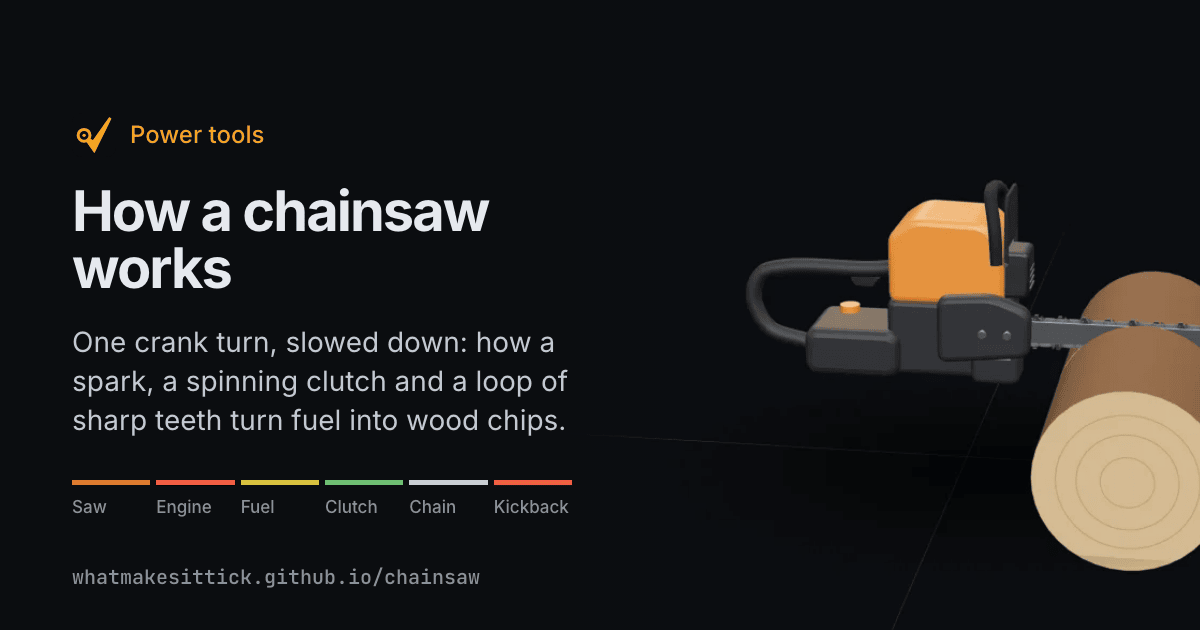
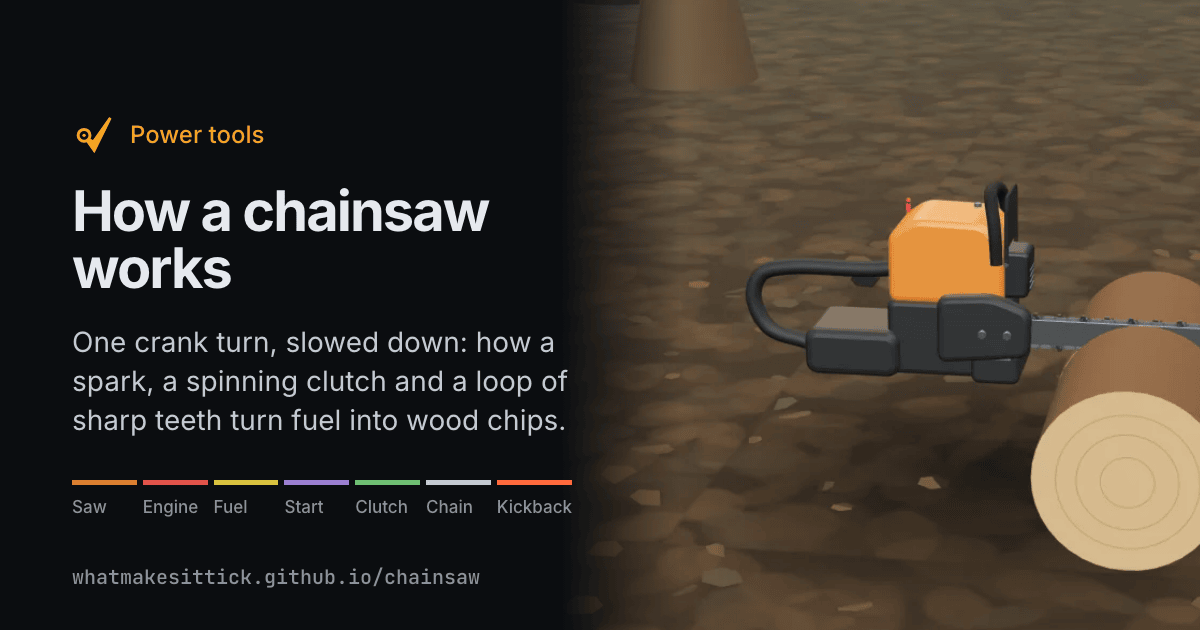
feat(chainsaw): refresh the cover and social card for the forest and the starting chapter

diff --git a/scripts/cards/chainsaw.html b/scripts/cards/chainsaw.html
@@ -19,6 +19,7 @@
         --saw: #e07b2e;
         --engine: #e5534b;
         --fuel: #d9c23f;
+        --start: #9b7fd1;
         --clutch: #6fbf73;
         --chain: #c9ced3;
         --kickback: #ff6a3d;
@@ -147,6 +148,7 @@
         <li style="--tone: var(--saw)">Saw</li>
         <li style="--tone: var(--engine)">Engine</li>
         <li style="--tone: var(--fuel)">Fuel</li>
+        <li style="--tone: var(--start)">Start</li>
         <li style="--tone: var(--clutch)">Clutch</li>
         <li style="--tone: var(--chain)">Chain</li>
         <li style="--tone: var(--kickback)">Kickback</li>
